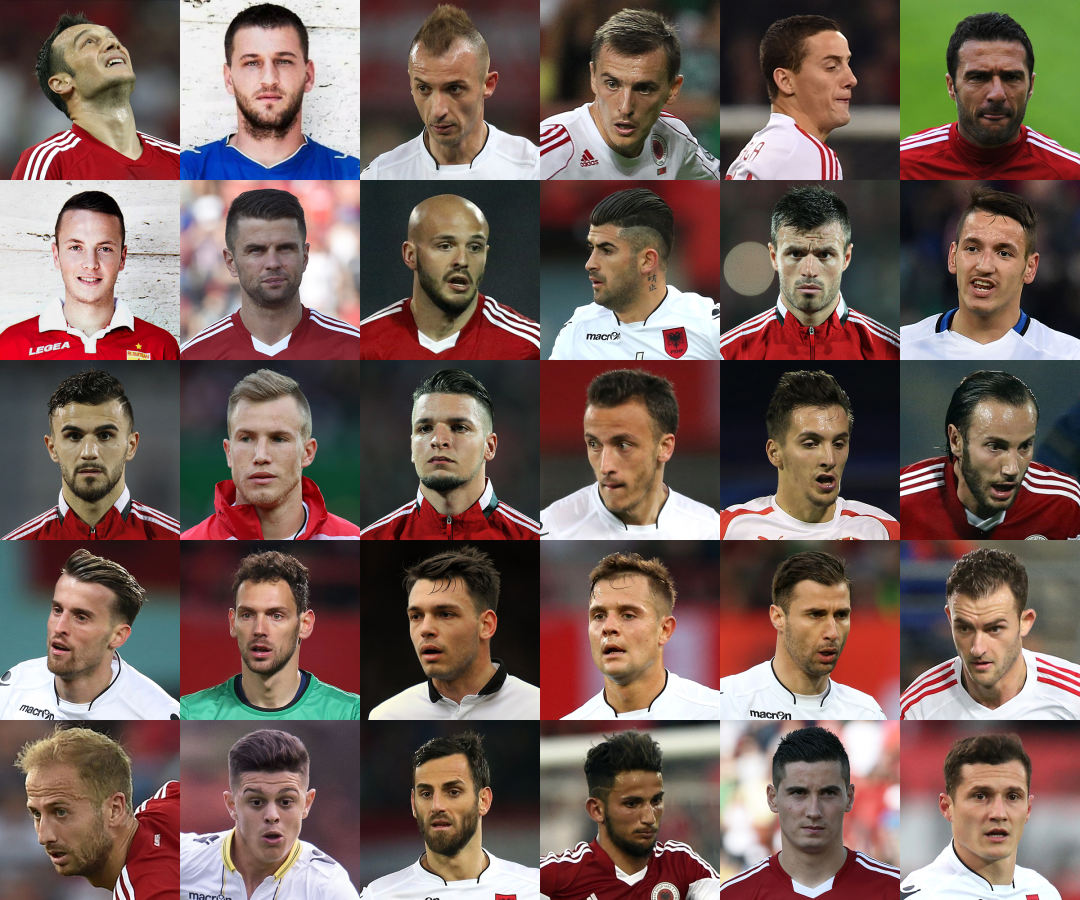
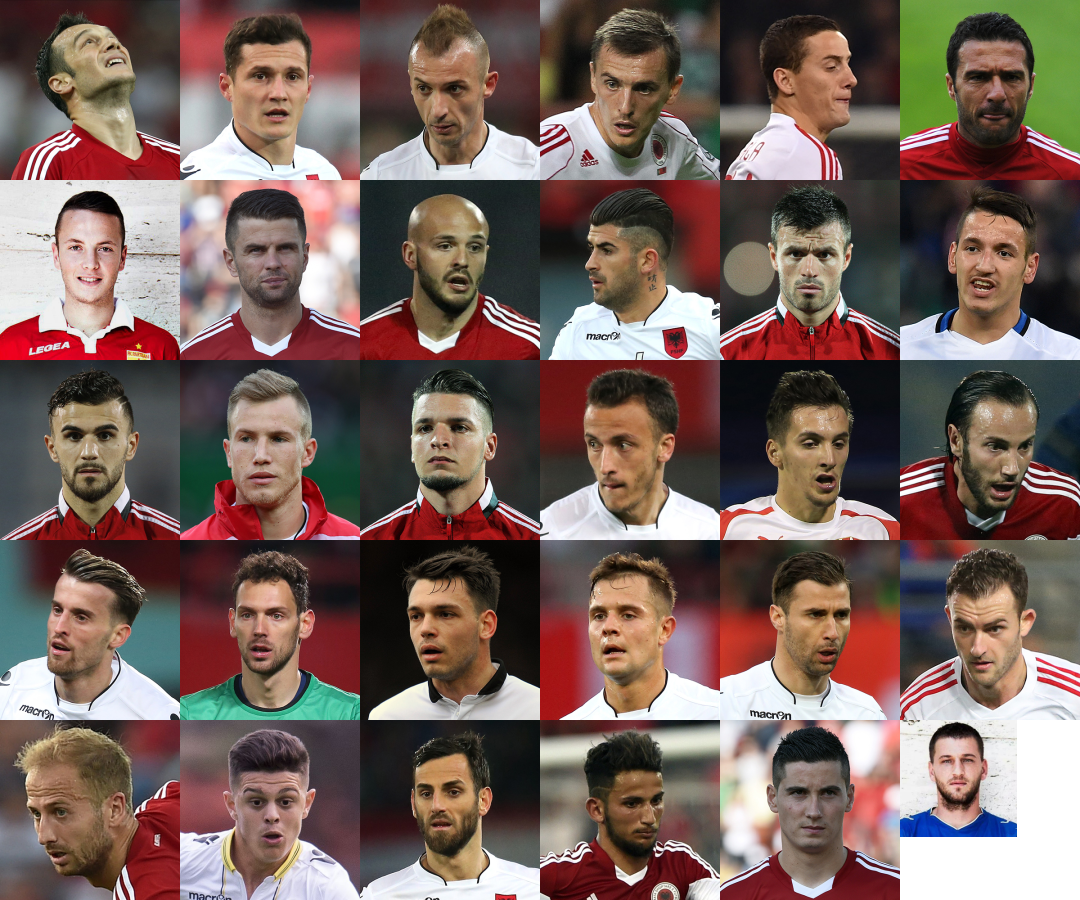
team picture changes

Changed region(s): [[0.825, 0.7778, 1.0, 1.0], [0.1528, 0.0, 0.3361, 0.2178]]

diff --git a/src/css/teams/Albania-260.scss b/src/css/teams/Albania-260.scss
@@ -1,31 +1,31 @@
-[class^='sprite-'], [class*=' sprite-'] { background-image:url('assets/imgs/teams/Albania-260.jpg'); background-size:780px 650px; width:260px; height:260px; }
-.sprite-Hamdi_Salihi { background-position:0 0; }
-.sprite-Alban_Hoxha { background-position:-130px 0; }
-.sprite-Amir_Rrahmani { background-position:0 -130px; }
-.sprite-Andi_Lila { background-position:-130px -130px; }
-.sprite-Ansi_Agolli { background-position:-260px 0; }
-.sprite-Arlind_Ajeti { background-position:-260px -130px; }
-.sprite-Armando_Sadiku { background-position:0 -260px; }
-.sprite-Bekim_Balaj { background-position:-130px -260px; }
-.sprite-Berat_Djimsiti { background-position:-260px -260px; }
-.sprite-Burim_Kukeli { background-position:-390px 0; }
-.sprite-Elseid_Hysaj { background-position:-390px -130px; }
-.sprite-Ergys_Kae { background-position:-390px -260px; }
-.sprite-Ermir_Lenjani { background-position:0 -390px; }
-.sprite-Etrit_Berisha { background-position:-130px -390px; }
-.sprite-Frdric_Veseli { background-position:-260px -390px; }
-.sprite-Amir_Abrashi { background-position:-390px -390px; }
-.sprite-Herolind_Shala { background-position:-520px 0; }
-.sprite-Ledian_Memushaj { background-position:-520px -130px; }
-.sprite-Liridon_Latifi { background-position:-520px -260px; }
-.sprite-Lorik_Cana { background-position:-520px -390px; }
-.sprite-Migjen_Basha { background-position:0 -520px; }
-.sprite-Milot_Rashica { background-position:-130px -520px; }
-.sprite-Mrgim_Mavraj { background-position:-260px -520px; }
-.sprite-Naser_Aliji { background-position:-390px -520px; }
-.sprite-Odise_Roshi { background-position:-520px -520px; }
-.sprite-Orges_Shehi { background-position:-650px 0; }
-.sprite-Rey_Manaj { background-position:-650px -130px; }
-.sprite-Shklzen_Gashi { background-position:-650px -260px; }
-.sprite-Sokol_ikalleshi { background-position:-650px -390px; }
-.sprite-Taulant_Xhaka { background-position:-650px -520px; }
+[class^='sprite-'], [class*=' sprite-'] { background-image:url('assets/imgs/teams/Albania-260.jpg'); background-size:780px 650px; }
+.sprite-Hamdi_Salihi { background-position:0 0; width:130px; height:130px; }
+.sprite-Taulant_Xhaka { background-position:-130px 0; width:130px; height:130px; }
+.sprite-Amir_Rrahmani { background-position:0 -130px; width:130px; height:130px; }
+.sprite-Andi_Lila { background-position:-130px -130px; width:130px; height:130px; }
+.sprite-Ansi_Agolli { background-position:-260px 0; width:130px; height:130px; }
+.sprite-Arlind_Ajeti { background-position:-260px -130px; width:130px; height:130px; }
+.sprite-Armando_Sadiku { background-position:0 -260px; width:130px; height:130px; }
+.sprite-Bekim_Balaj { background-position:-130px -260px; width:130px; height:130px; }
+.sprite-Berat_Djimsiti { background-position:-260px -260px; width:130px; height:130px; }
+.sprite-Burim_Kukeli { background-position:-390px 0; width:130px; height:130px; }
+.sprite-Elseid_Hysaj { background-position:-390px -130px; width:130px; height:130px; }
+.sprite-Ergys_Kae { background-position:-390px -260px; width:130px; height:130px; }
+.sprite-Ermir_Lenjani { background-position:0 -390px; width:130px; height:130px; }
+.sprite-Etrit_Berisha { background-position:-130px -390px; width:130px; height:130px; }
+.sprite-Frdric_Veseli { background-position:-260px -390px; width:130px; height:130px; }
+.sprite-Amir_Abrashi { background-position:-390px -390px; width:130px; height:130px; }
+.sprite-Herolind_Shala { background-position:-520px 0; width:130px; height:130px; }
+.sprite-Ledian_Memushaj { background-position:-520px -130px; width:130px; height:130px; }
+.sprite-Liridon_Latifi { background-position:-520px -260px; width:130px; height:130px; }
+.sprite-Lorik_Cana { background-position:-520px -390px; width:130px; height:130px; }
+.sprite-Migjen_Basha { background-position:0 -520px; width:130px; height:130px; }
+.sprite-Milot_Rashica { background-position:-130px -520px; width:130px; height:130px; }
+.sprite-Mrgim_Mavraj { background-position:-260px -520px; width:130px; height:130px; }
+.sprite-Naser_Aliji { background-position:-390px -520px; width:130px; height:130px; }
+.sprite-Odise_Roshi { background-position:-520px -520px; width:130px; height:130px; }
+.sprite-Orges_Shehi { background-position:-650px 0; width:130px; height:130px; }
+.sprite-Rey_Manaj { background-position:-650px -130px; width:130px; height:130px; }
+.sprite-Shklzen_Gashi { background-position:-650px -260px; width:130px; height:130px; }
+.sprite-Sokol_ikalleshi { background-position:-650px -390px; width:130px; height:130px; }
+.sprite-Alban_Hoxha { background-position:-650px -520px; width:84.5px; height:84.5px; }

diff --git a/src/css/teams/Albania-240.scss b/src/css/teams/Albania-240.scss
@@ -1,31 +1,31 @@
-[class^='sprite-'], [class*=' sprite-'] { background-image:url('assets/imgs/teams/Albania-240.jpg'); background-size:720px 600px; width:240px; height:240px; }
-.sprite-Hamdi_Salihi { background-position:0 0; }
-.sprite-Alban_Hoxha { background-position:-120px 0; }
-.sprite-Amir_Rrahmani { background-position:0 -120px; }
-.sprite-Andi_Lila { background-position:-120px -120px; }
-.sprite-Ansi_Agolli { background-position:-240px 0; }
-.sprite-Arlind_Ajeti { background-position:-240px -120px; }
-.sprite-Armando_Sadiku { background-position:0 -240px; }
-.sprite-Bekim_Balaj { background-position:-120px -240px; }
-.sprite-Berat_Djimsiti { background-position:-240px -240px; }
-.sprite-Burim_Kukeli { background-position:-360px 0; }
-.sprite-Elseid_Hysaj { background-position:-360px -120px; }
-.sprite-Ergys_Kae { background-position:-360px -240px; }
-.sprite-Ermir_Lenjani { background-position:0 -360px; }
-.sprite-Etrit_Berisha { background-position:-120px -360px; }
-.sprite-Frdric_Veseli { background-position:-240px -360px; }
-.sprite-Amir_Abrashi { background-position:-360px -360px; }
-.sprite-Herolind_Shala { background-position:-480px 0; }
-.sprite-Ledian_Memushaj { background-position:-480px -120px; }
-.sprite-Liridon_Latifi { background-position:-480px -240px; }
-.sprite-Lorik_Cana { background-position:-480px -360px; }
-.sprite-Migjen_Basha { background-position:0 -480px; }
-.sprite-Milot_Rashica { background-position:-120px -480px; }
-.sprite-Mrgim_Mavraj { background-position:-240px -480px; }
-.sprite-Naser_Aliji { background-position:-360px -480px; }
-.sprite-Odise_Roshi { background-position:-480px -480px; }
-.sprite-Orges_Shehi { background-position:-600px 0; }
-.sprite-Rey_Manaj { background-position:-600px -120px; }
-.sprite-Shklzen_Gashi { background-position:-600px -240px; }
-.sprite-Sokol_ikalleshi { background-position:-600px -360px; }
-.sprite-Taulant_Xhaka { background-position:-600px -480px; }
+[class^='sprite-'], [class*=' sprite-'] { background-image:url('assets/imgs/teams/Albania-240.jpg'); background-size:720px 600px; }
+.sprite-Hamdi_Salihi { background-position:0 0; width:120px; height:120px; }
+.sprite-Taulant_Xhaka { background-position:-120px 0; width:120px; height:120px; }
+.sprite-Amir_Rrahmani { background-position:0 -120px; width:120px; height:120px; }
+.sprite-Andi_Lila { background-position:-120px -120px; width:120px; height:120px; }
+.sprite-Ansi_Agolli { background-position:-240px 0; width:120px; height:120px; }
+.sprite-Arlind_Ajeti { background-position:-240px -120px; width:120px; height:120px; }
+.sprite-Armando_Sadiku { background-position:0 -240px; width:120px; height:120px; }
+.sprite-Bekim_Balaj { background-position:-120px -240px; width:120px; height:120px; }
+.sprite-Berat_Djimsiti { background-position:-240px -240px; width:120px; height:120px; }
+.sprite-Burim_Kukeli { background-position:-360px 0; width:120px; height:120px; }
+.sprite-Elseid_Hysaj { background-position:-360px -120px; width:120px; height:120px; }
+.sprite-Ergys_Kae { background-position:-360px -240px; width:120px; height:120px; }
+.sprite-Ermir_Lenjani { background-position:0 -360px; width:120px; height:120px; }
+.sprite-Etrit_Berisha { background-position:-120px -360px; width:120px; height:120px; }
+.sprite-Frdric_Veseli { background-position:-240px -360px; width:120px; height:120px; }
+.sprite-Amir_Abrashi { background-position:-360px -360px; width:120px; height:120px; }
+.sprite-Herolind_Shala { background-position:-480px 0; width:120px; height:120px; }
+.sprite-Ledian_Memushaj { background-position:-480px -120px; width:120px; height:120px; }
+.sprite-Liridon_Latifi { background-position:-480px -240px; width:120px; height:120px; }
+.sprite-Lorik_Cana { background-position:-480px -360px; width:120px; height:120px; }
+.sprite-Migjen_Basha { background-position:0 -480px; width:120px; height:120px; }
+.sprite-Milot_Rashica { background-position:-120px -480px; width:120px; height:120px; }
+.sprite-Mrgim_Mavraj { background-position:-240px -480px; width:120px; height:120px; }
+.sprite-Naser_Aliji { background-position:-360px -480px; width:120px; height:120px; }
+.sprite-Odise_Roshi { background-position:-480px -480px; width:120px; height:120px; }
+.sprite-Orges_Shehi { background-position:-600px 0; width:120px; height:120px; }
+.sprite-Rey_Manaj { background-position:-600px -120px; width:120px; height:120px; }
+.sprite-Shklzen_Gashi { background-position:-600px -240px; width:120px; height:120px; }
+.sprite-Sokol_ikalleshi { background-position:-600px -360px; width:120px; height:120px; }
+.sprite-Alban_Hoxha { background-position:-600px -480px; width:78px; height:78px; }

diff --git a/src/css/teams/Albania-180.scss b/src/css/teams/Albania-180.scss
@@ -1,31 +1,31 @@
-[class^='sprite-'], [class*=' sprite-'] { background-image:url('assets/imgs/teams/Albania-180.jpg'); background-size:540px 450px; width:180px; height:180px; }
-.sprite-Hamdi_Salihi { background-position:0 0; }
-.sprite-Alban_Hoxha { background-position:-90px 0; }
-.sprite-Amir_Rrahmani { background-position:0 -90px; }
-.sprite-Andi_Lila { background-position:-90px -90px; }
-.sprite-Ansi_Agolli { background-position:-180px 0; }
-.sprite-Arlind_Ajeti { background-position:-180px -90px; }
-.sprite-Armando_Sadiku { background-position:0 -180px; }
-.sprite-Bekim_Balaj { background-position:-90px -180px; }
-.sprite-Berat_Djimsiti { background-position:-180px -180px; }
-.sprite-Burim_Kukeli { background-position:-270px 0; }
-.sprite-Elseid_Hysaj { background-position:-270px -90px; }
-.sprite-Ergys_Kae { background-position:-270px -180px; }
-.sprite-Ermir_Lenjani { background-position:0 -270px; }
-.sprite-Etrit_Berisha { background-position:-90px -270px; }
-.sprite-Frdric_Veseli { background-position:-180px -270px; }
-.sprite-Amir_Abrashi { background-position:-270px -270px; }
-.sprite-Herolind_Shala { background-position:-360px 0; }
-.sprite-Ledian_Memushaj { background-position:-360px -90px; }
-.sprite-Liridon_Latifi { background-position:-360px -180px; }
-.sprite-Lorik_Cana { background-position:-360px -270px; }
-.sprite-Migjen_Basha { background-position:0 -360px; }
-.sprite-Milot_Rashica { background-position:-90px -360px; }
-.sprite-Mrgim_Mavraj { background-position:-180px -360px; }
-.sprite-Naser_Aliji { background-position:-270px -360px; }
-.sprite-Odise_Roshi { background-position:-360px -360px; }
-.sprite-Orges_Shehi { background-position:-450px 0; }
-.sprite-Rey_Manaj { background-position:-450px -90px; }
-.sprite-Shklzen_Gashi { background-position:-450px -180px; }
-.sprite-Sokol_ikalleshi { background-position:-450px -270px; }
-.sprite-Taulant_Xhaka { background-position:-450px -360px; }
+[class^='sprite-'], [class*=' sprite-'] { background-image:url('assets/imgs/teams/Albania-180.jpg'); background-size:540px 450px; }
+.sprite-Hamdi_Salihi { background-position:0 0; width:90px; height:90px; }
+.sprite-Taulant_Xhaka { background-position:-90px 0; width:90px; height:90px; }
+.sprite-Amir_Rrahmani { background-position:0 -90px; width:90px; height:90px; }
+.sprite-Andi_Lila { background-position:-90px -90px; width:90px; height:90px; }
+.sprite-Ansi_Agolli { background-position:-180px 0; width:90px; height:90px; }
+.sprite-Arlind_Ajeti { background-position:-180px -90px; width:90px; height:90px; }
+.sprite-Armando_Sadiku { background-position:0 -180px; width:90px; height:90px; }
+.sprite-Bekim_Balaj { background-position:-90px -180px; width:90px; height:90px; }
+.sprite-Berat_Djimsiti { background-position:-180px -180px; width:90px; height:90px; }
+.sprite-Burim_Kukeli { background-position:-270px 0; width:90px; height:90px; }
+.sprite-Elseid_Hysaj { background-position:-270px -90px; width:90px; height:90px; }
+.sprite-Ergys_Kae { background-position:-270px -180px; width:90px; height:90px; }
+.sprite-Ermir_Lenjani { background-position:0 -270px; width:90px; height:90px; }
+.sprite-Etrit_Berisha { background-position:-90px -270px; width:90px; height:90px; }
+.sprite-Frdric_Veseli { background-position:-180px -270px; width:90px; height:90px; }
+.sprite-Amir_Abrashi { background-position:-270px -270px; width:90px; height:90px; }
+.sprite-Herolind_Shala { background-position:-360px 0; width:90px; height:90px; }
+.sprite-Ledian_Memushaj { background-position:-360px -90px; width:90px; height:90px; }
+.sprite-Liridon_Latifi { background-position:-360px -180px; width:90px; height:90px; }
+.sprite-Lorik_Cana { background-position:-360px -270px; width:90px; height:90px; }
+.sprite-Migjen_Basha { background-position:0 -360px; width:90px; height:90px; }
+.sprite-Milot_Rashica { background-position:-90px -360px; width:90px; height:90px; }
+.sprite-Mrgim_Mavraj { background-position:-180px -360px; width:90px; height:90px; }
+.sprite-Naser_Aliji { background-position:-270px -360px; width:90px; height:90px; }
+.sprite-Odise_Roshi { background-position:-360px -360px; width:90px; height:90px; }
+.sprite-Orges_Shehi { background-position:-450px 0; width:90px; height:90px; }
+.sprite-Rey_Manaj { background-position:-450px -90px; width:90px; height:90px; }
+.sprite-Shklzen_Gashi { background-position:-450px -180px; width:90px; height:90px; }
+.sprite-Sokol_ikalleshi { background-position:-450px -270px; width:90px; height:90px; }
+.sprite-Alban_Hoxha { background-position:-450px -360px; width:58.5px; height:58.5px; }

diff --git a/sprite-maker/sprite-maker.js b/sprite-maker/sprite-maker.js
@@ -277,14 +277,20 @@ function moveIntoPlace(css_path, img_path, filename){
 	  fs.copySync(css_path , final_css + filename + '.scss')
 	  console.log("success!" + filename + ' css');
 	} catch (err) {
-	  console.error(err)
+		if(err){
+			console.error(err)
+		}
+	  
 	}
 
 	try {
 	  fs.copySync(img_path , final_imgs + filename + '.jpg')
 	  console.log("success:" + filename + ' jpg');
 	} catch (err) {
-	  console.error(err)
+		if(err){
+			console.error(err)
+		}
+	  
 	}
 
 
